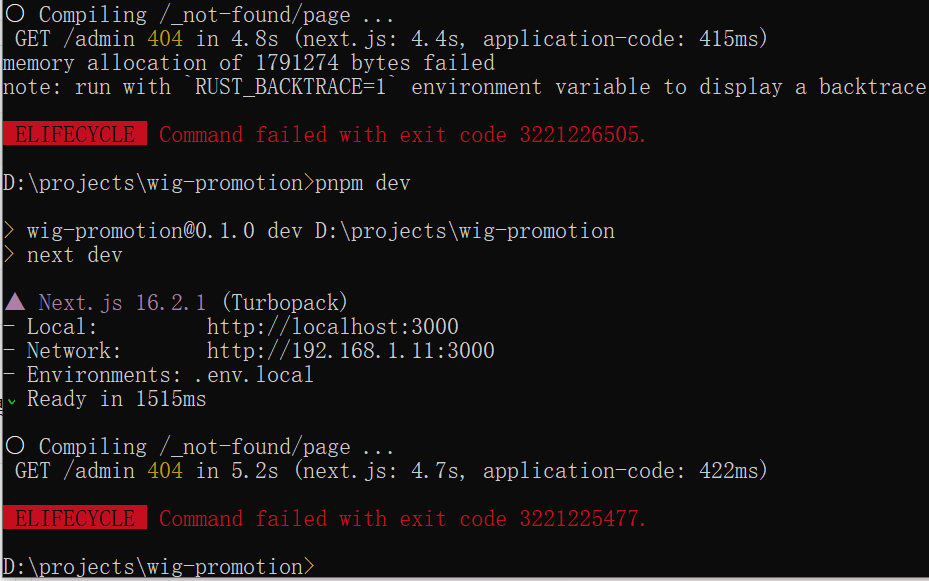
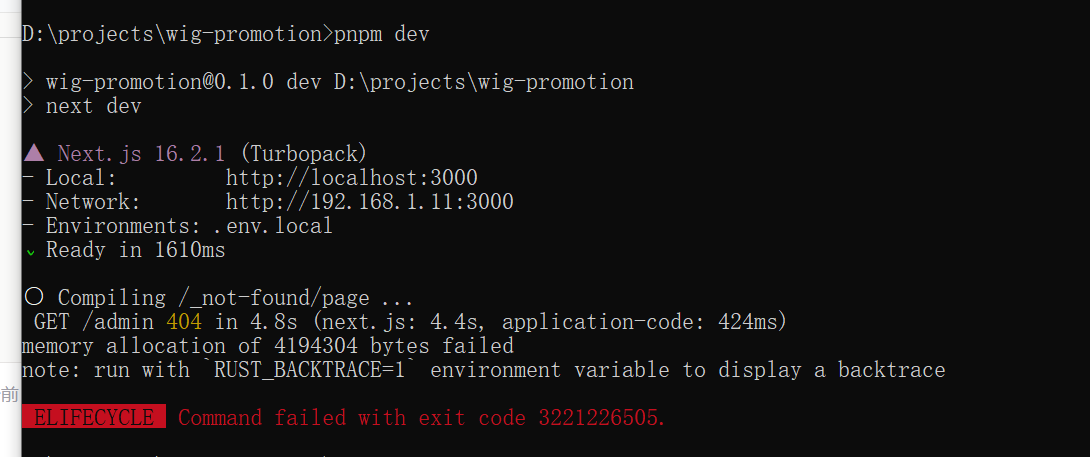
fix: 禁用Turbopack解决内存问题

Changed region(s): [[0.0, 0.0, 1.0, 1.0], [0.8741, 0.1225, 0.9989, 0.1838]]

diff --git a/next.config.ts b/next.config.ts
@@ -1,10 +1,6 @@
 import type { NextConfig } from 'next';
-import path from 'path';
 
 const nextConfig: NextConfig = {
-  turbopack: {
-    root: __dirname,
-  },
   allowedDevOrigins: ['*.dev.coze.site'],
   images: {
     remotePatterns: [
